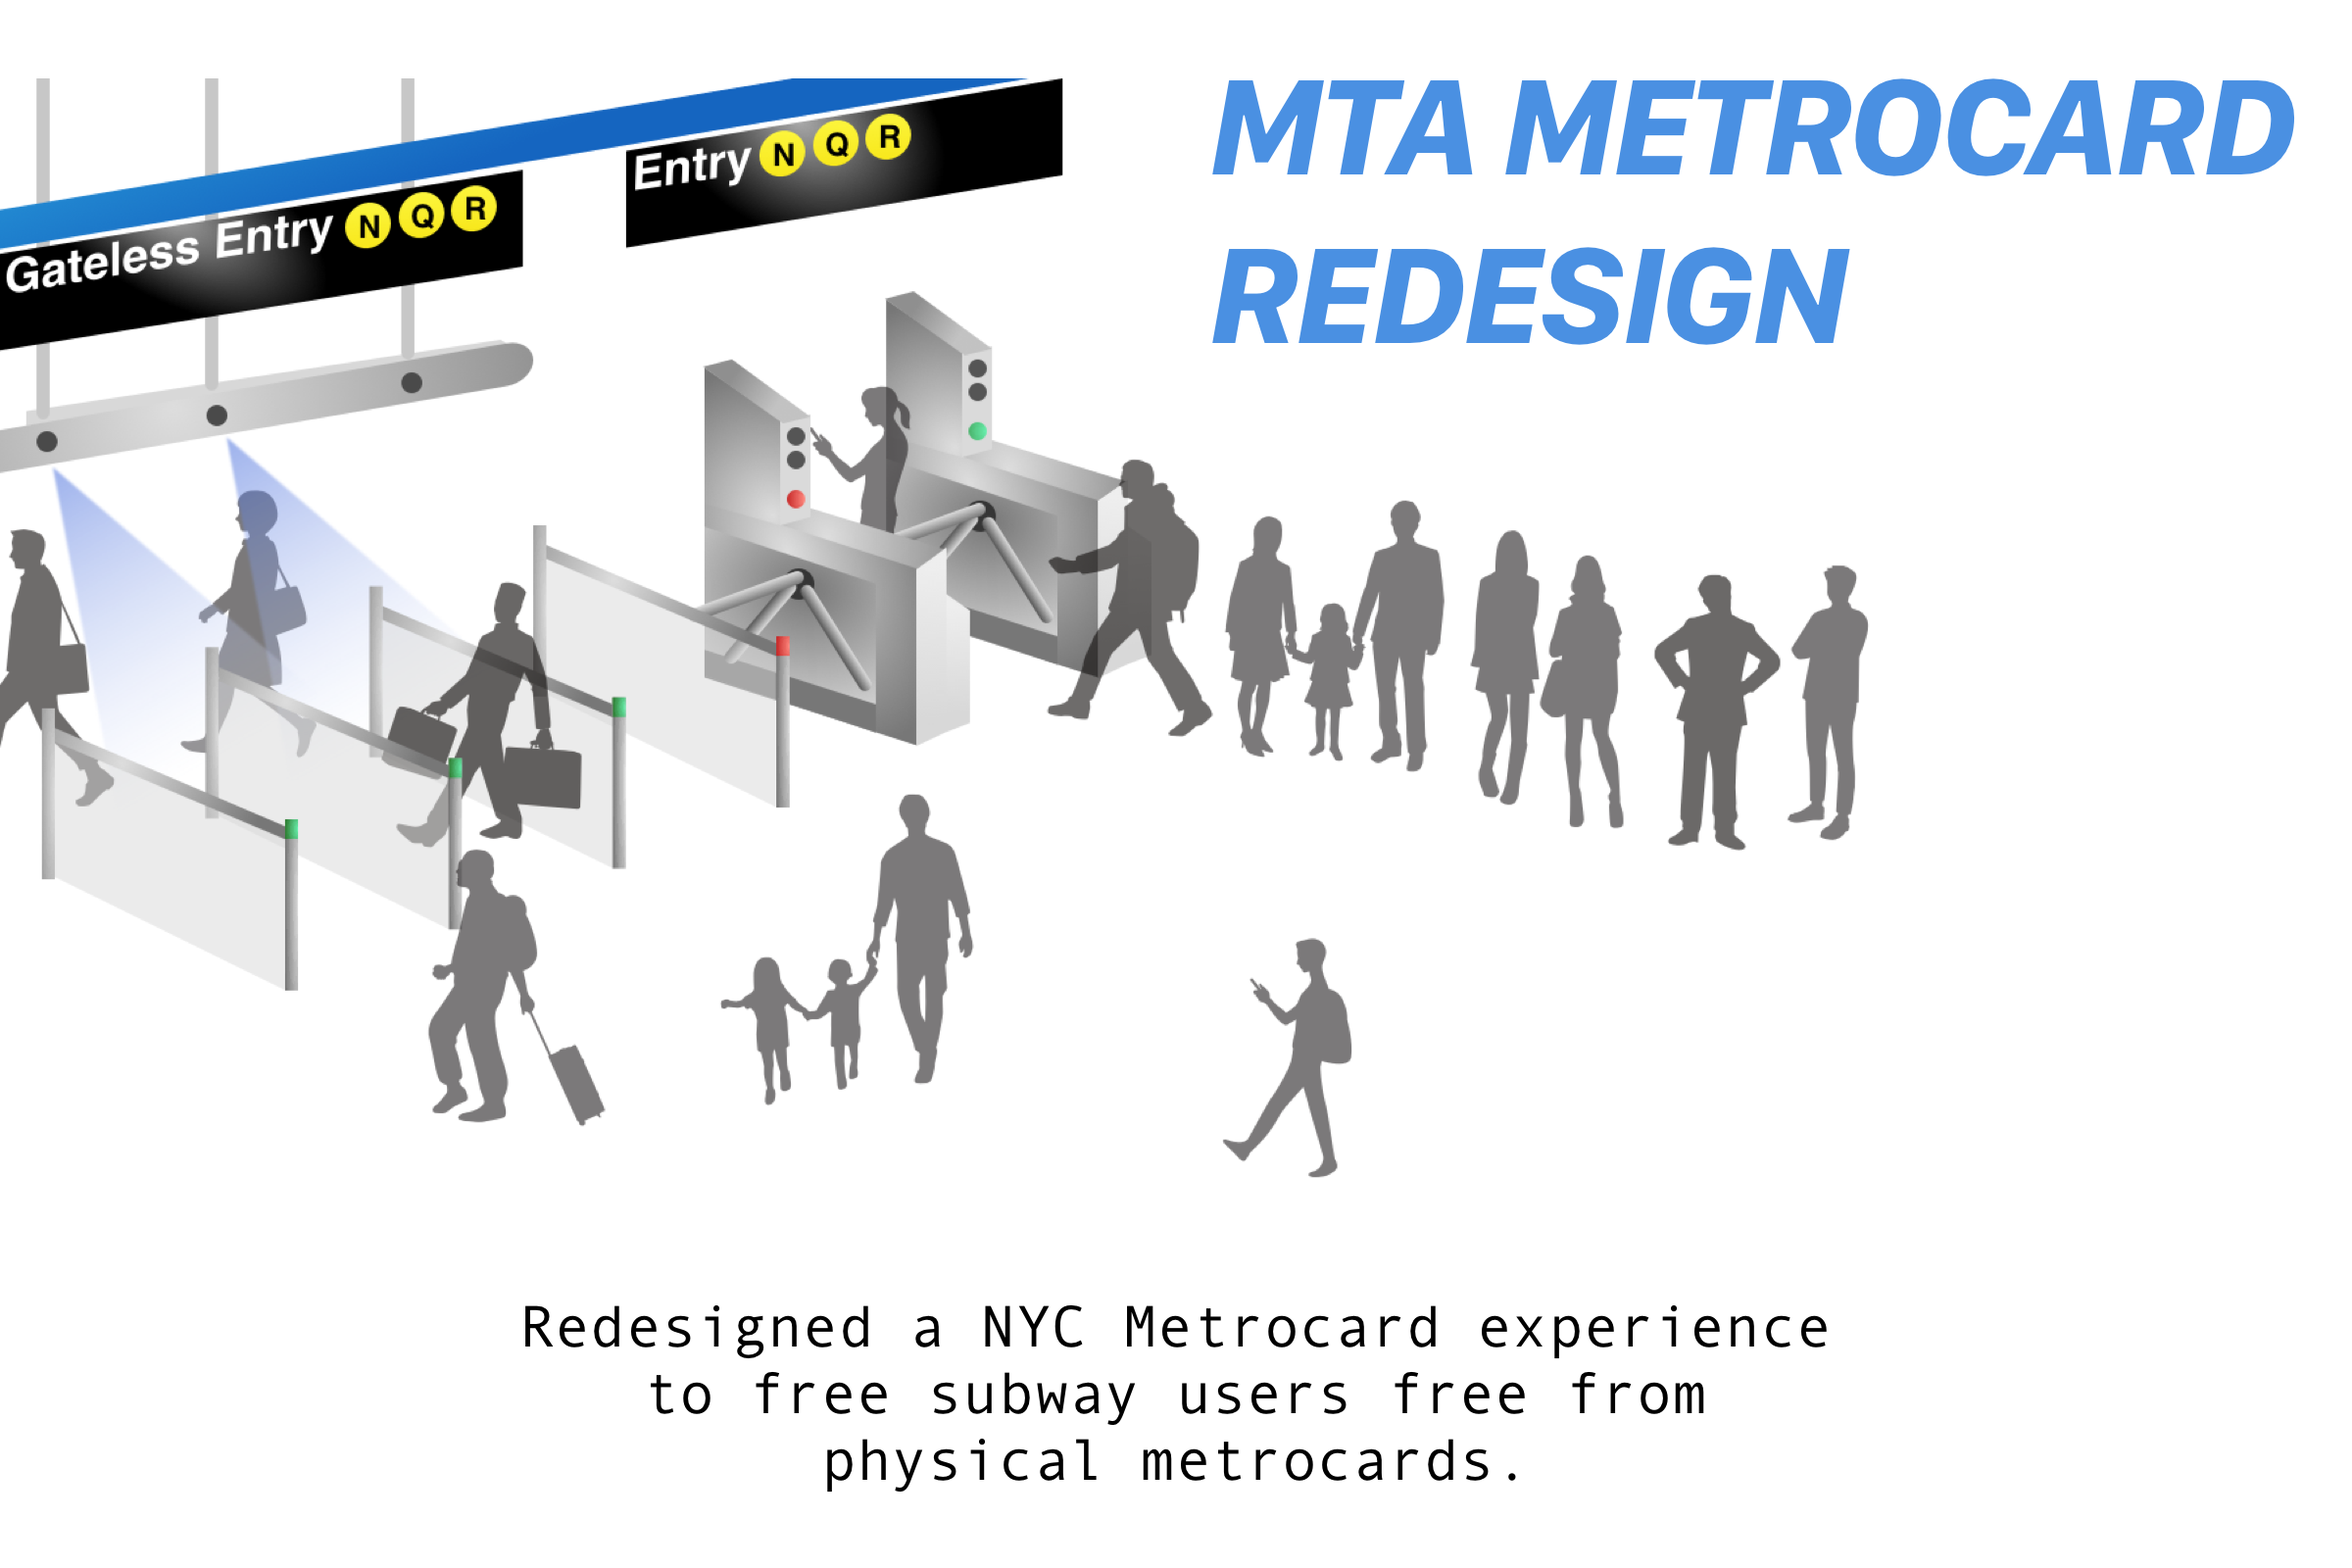
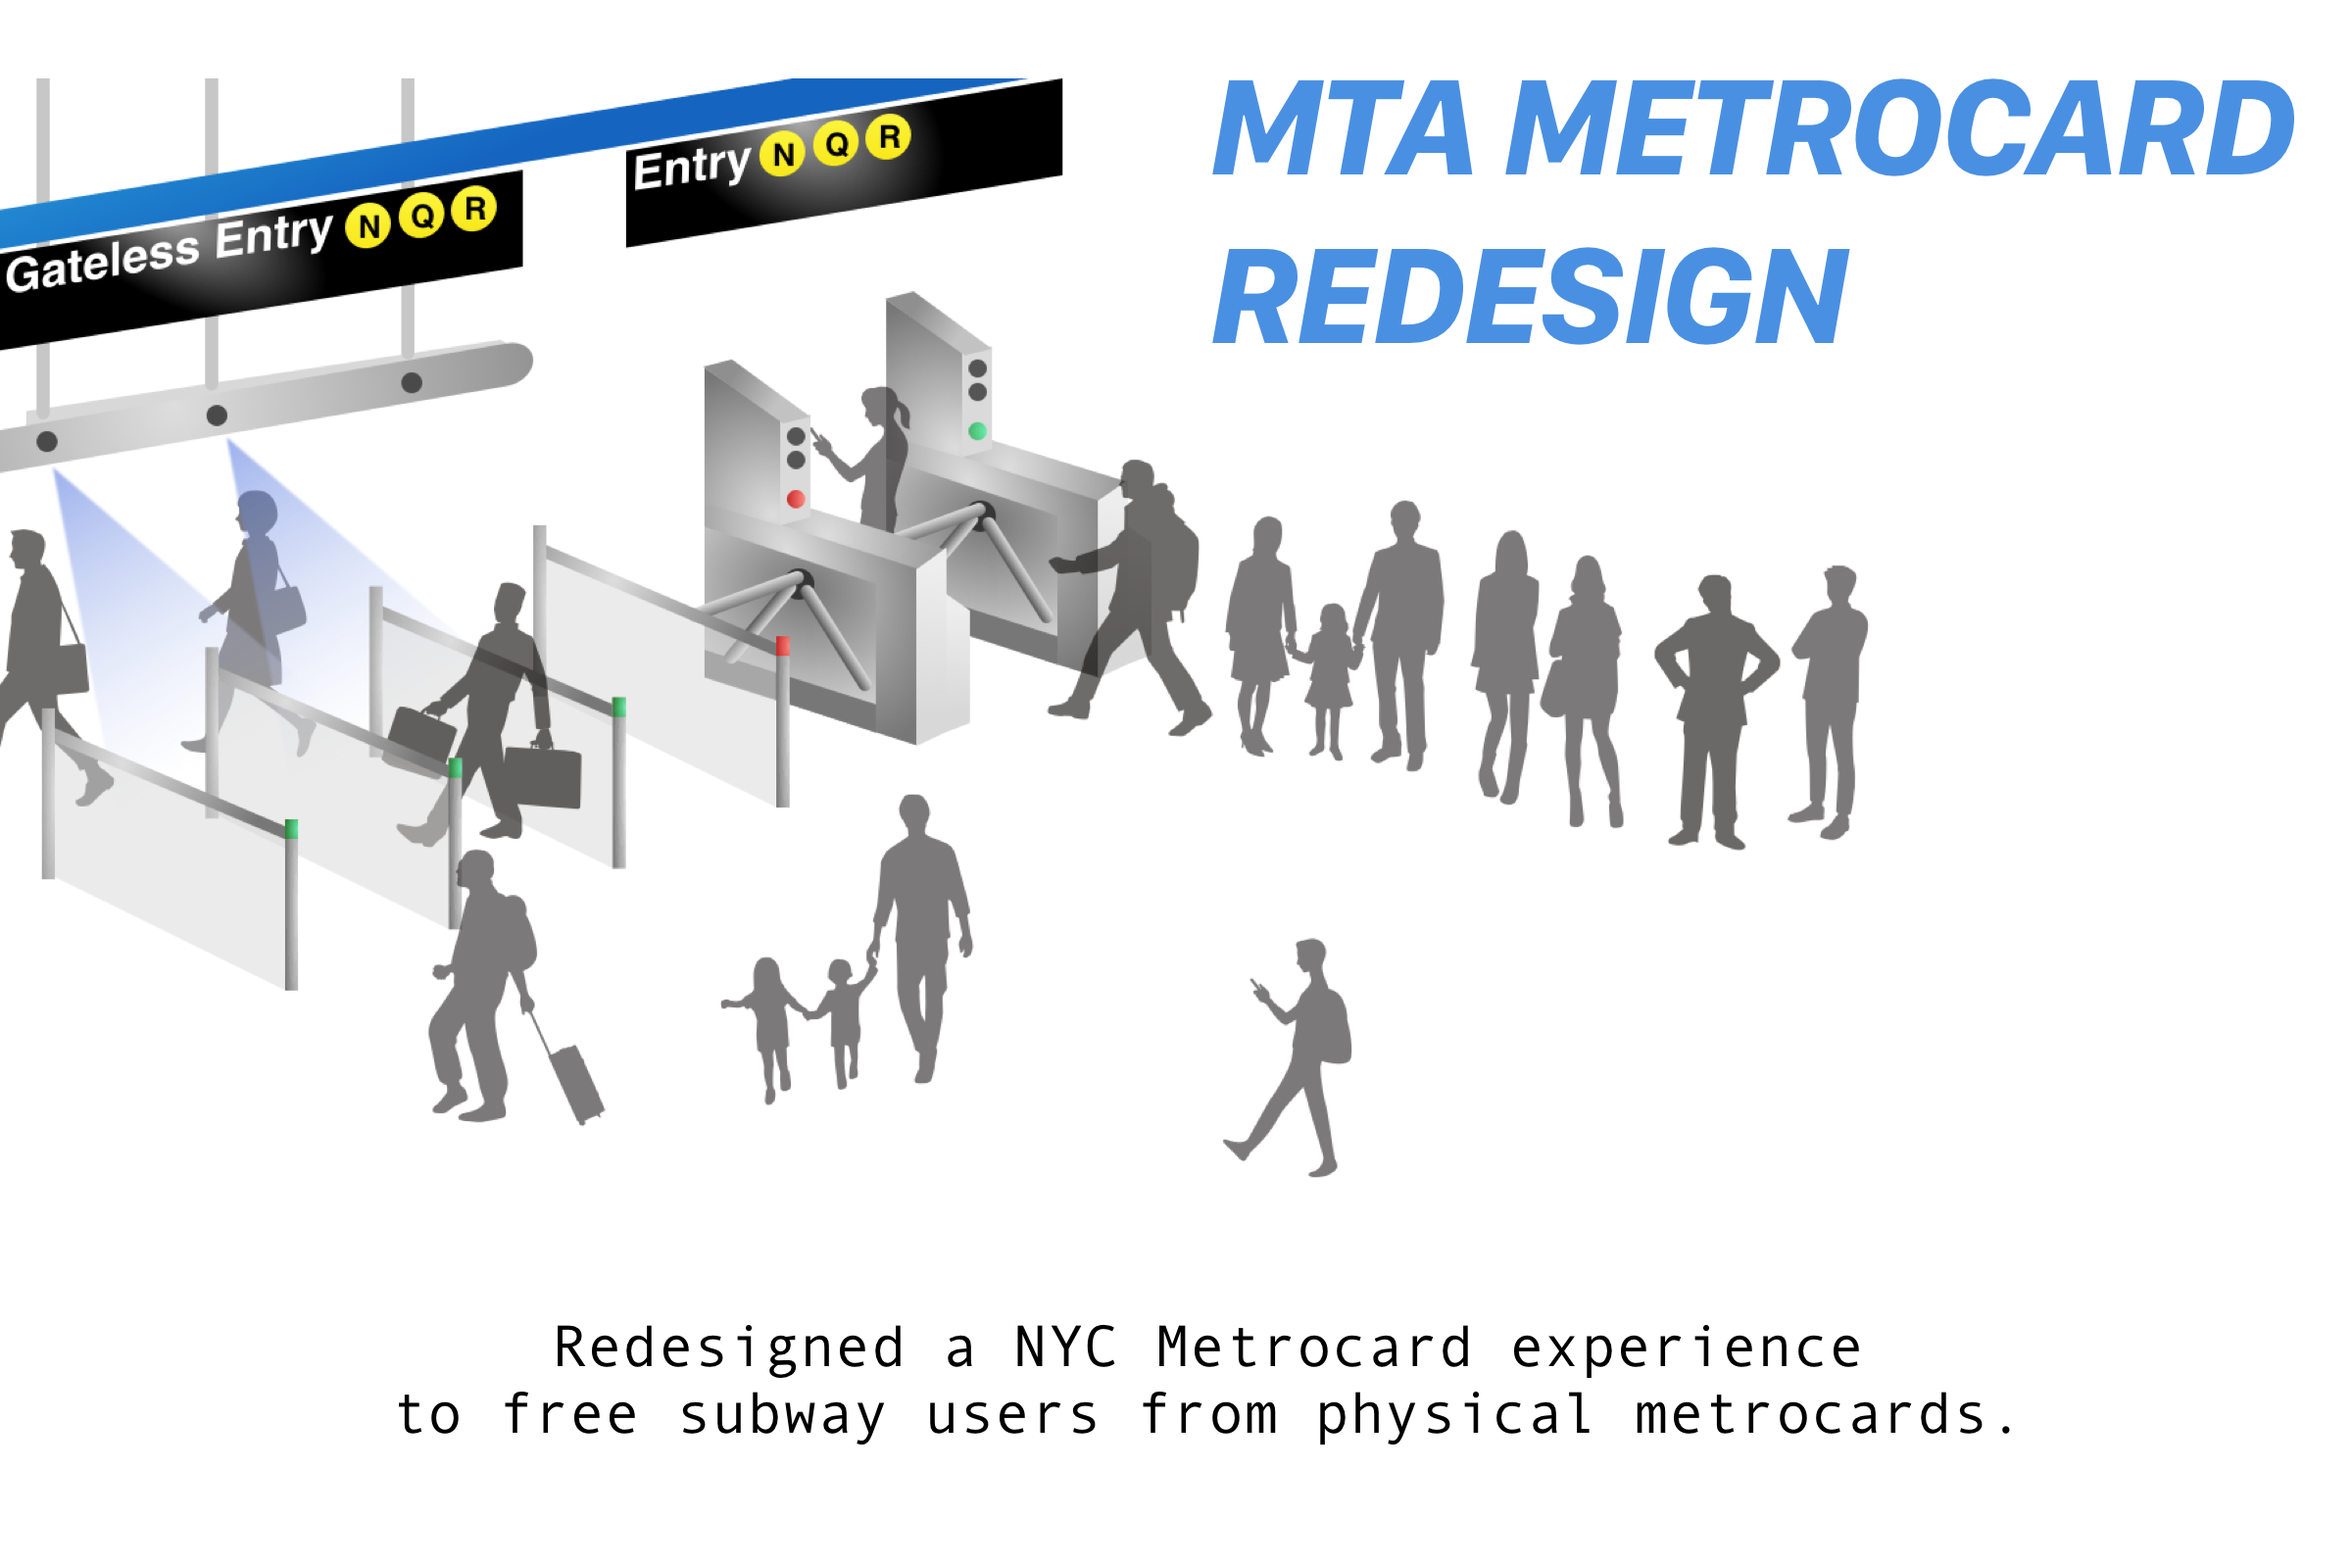
no message

Changed region(s): [[0.2188, 0.8125, 0.8438, 0.9375]]

diff --git a/tags/uxui/index.html b/tags/uxui/index.html
@@ -219,7 +219,7 @@ if (!doNotTrack) {
             <div class="img-link-caption">
               <div class="img-link-text">                
                 
-                <p class="desc">Redesigned a NYC Metrocard experience.</p>
+                <p class="desc">Redesigned a NYC Metrocard experience to free subway users from physical metrocards.</p>
                 <p class="link">> <a href="http://iwabm.github.io/work/service--ux/2018_mta/">Read More</a></p>
               </div>
             </div>

diff --git a/tags/index.html b/tags/index.html
@@ -467,7 +467,7 @@ if (!doNotTrack) {
             <div class="img-link-caption">
               <div class="img-link-text">
                 
-                <p class="desc">Redesigned a NYC Metrocard experience.</p>
+                <p class="desc">Redesigned a NYC Metrocard experience to free subway users from physical metrocards.</p>
                 <p class="link">> <a href="http://iwabm.github.io/work/service--ux/2018_mta/">Read More</a></p>
               </div>
             </div>

diff --git a/index.html b/index.html
@@ -270,7 +270,7 @@ if (!doNotTrack) {
               <div class="img-link-text">
                 
                         
-                <p class="desc">Redesigned a NYC Metrocard experience.</p>
+                <p class="desc">Redesigned a NYC Metrocard experience to free subway users from physical metrocards.</p>
                 <p class="link"><a href="http://iwabm.github.io/work/service--ux/2018_mta/">Read More</a></p>                 
               </div>
             </div>

diff --git a/work/index.html b/work/index.html
@@ -258,7 +258,7 @@ if (!doNotTrack) {
               <div class="img-link-text">
                 
                         
-                <p class="desc">Redesigned a NYC Metrocard experience.</p>
+                <p class="desc">Redesigned a NYC Metrocard experience to free subway users from physical metrocards.</p>
                 <p class="link"><a href="http://iwabm.github.io/work/service--ux/2018_mta/">Read More</a></p>                 
               </div>
             </div>
